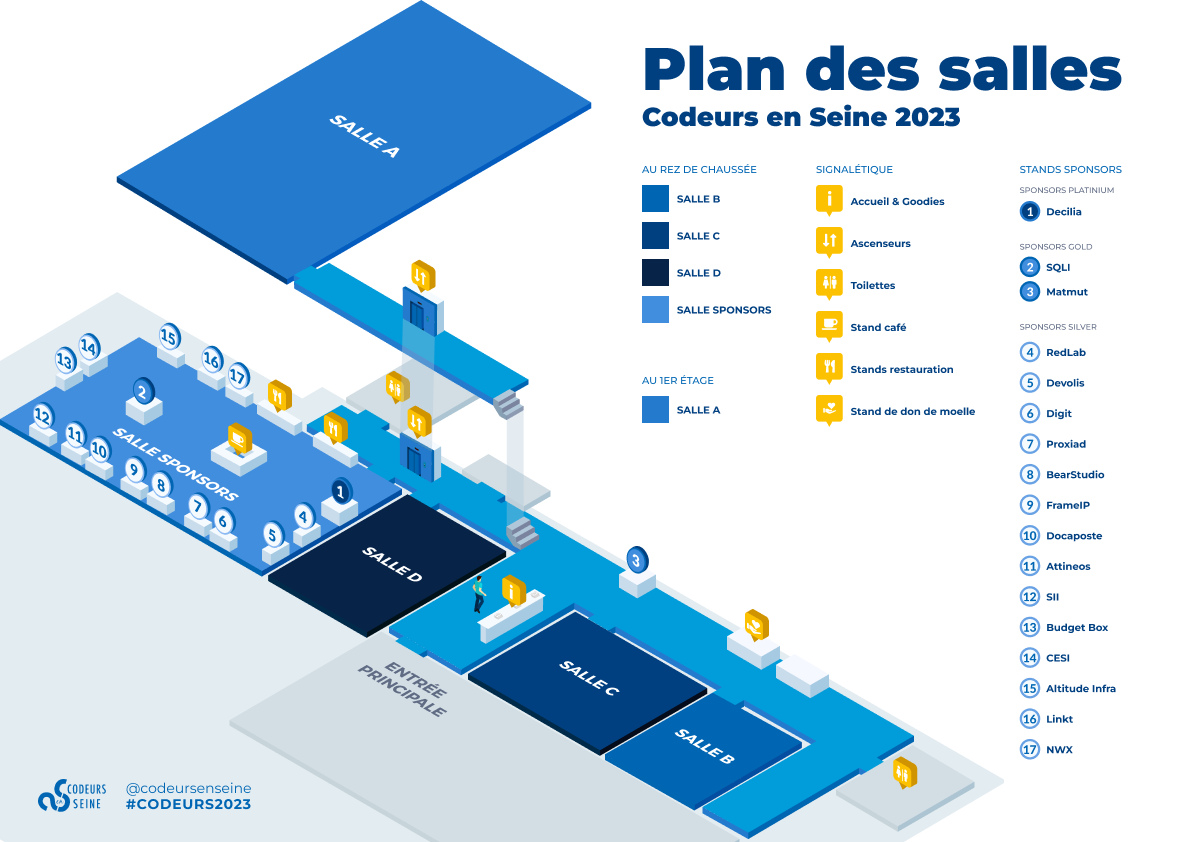
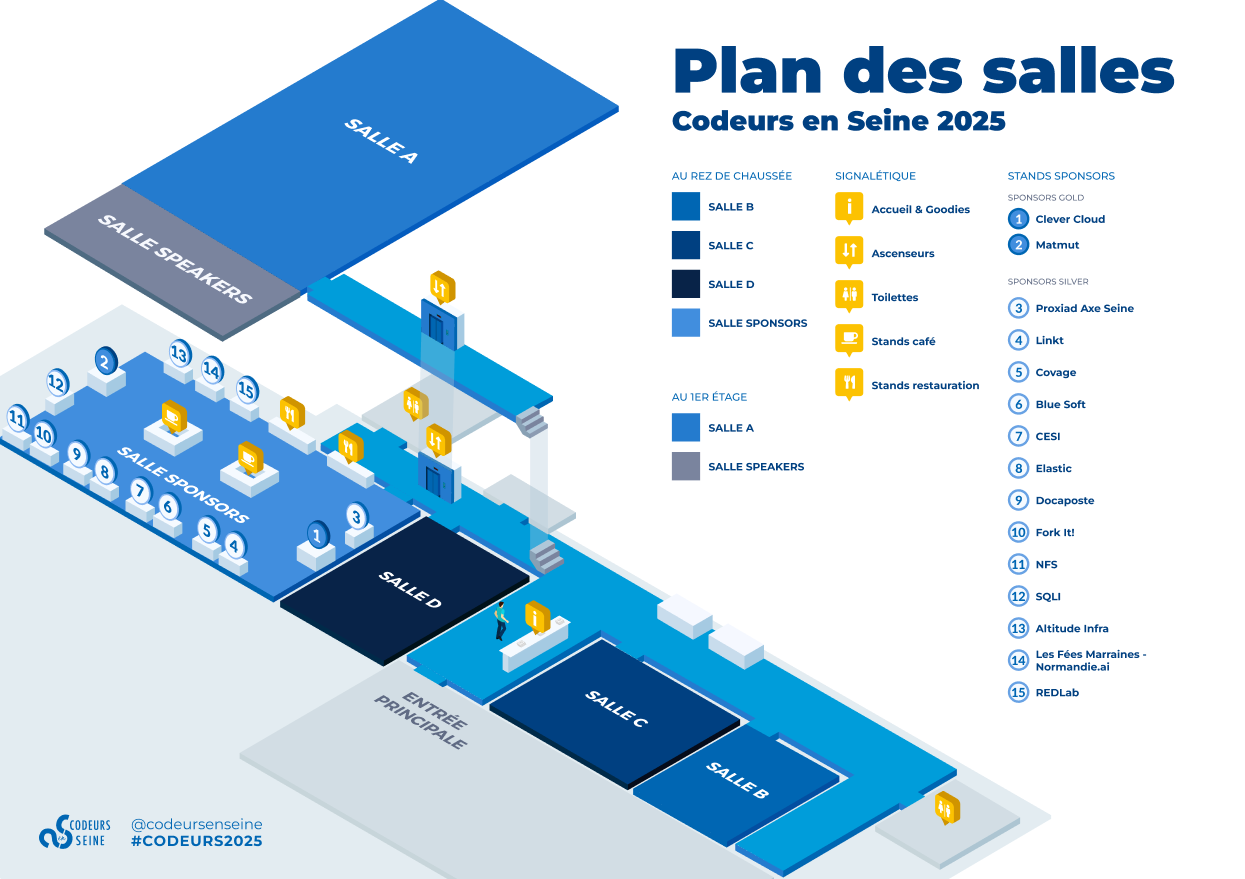
feat(infos): Sponsors room layout and OpenFeedback link

diff --git a/src/app/2025/infos/page.tsx b/src/app/2025/infos/page.tsx
@@ -20,13 +20,12 @@ export default function InfoPage() {
         <Heading as="h2" fontSize="xl">
           Plan de Codeurs en Seine
         </Heading>
-        <Box><Text>En préparation ...</Text></Box>
-        {/*<Image
+        <Image
           src="/images/ces/plan-sponsors.png"
           alt="Plan de Codeurs en Seine"
           width={1200}
           height={1000}
-        /> */}
+        />
       </Stack>
 
       <Stack as="section">
@@ -145,7 +144,7 @@ export default function InfoPage() {
           jour même sur{' '}
           <Link
             color="brand.700"
-            href="https://openfeedback.io/codeursenseine2024"
+            href="https://openfeedback.io/jLatxj2p4GVAkWoMLDnl/2025-11-20"
             isExternal
           >
             OpenFeedback <Icon as={FiExternalLink} mx="1" />
